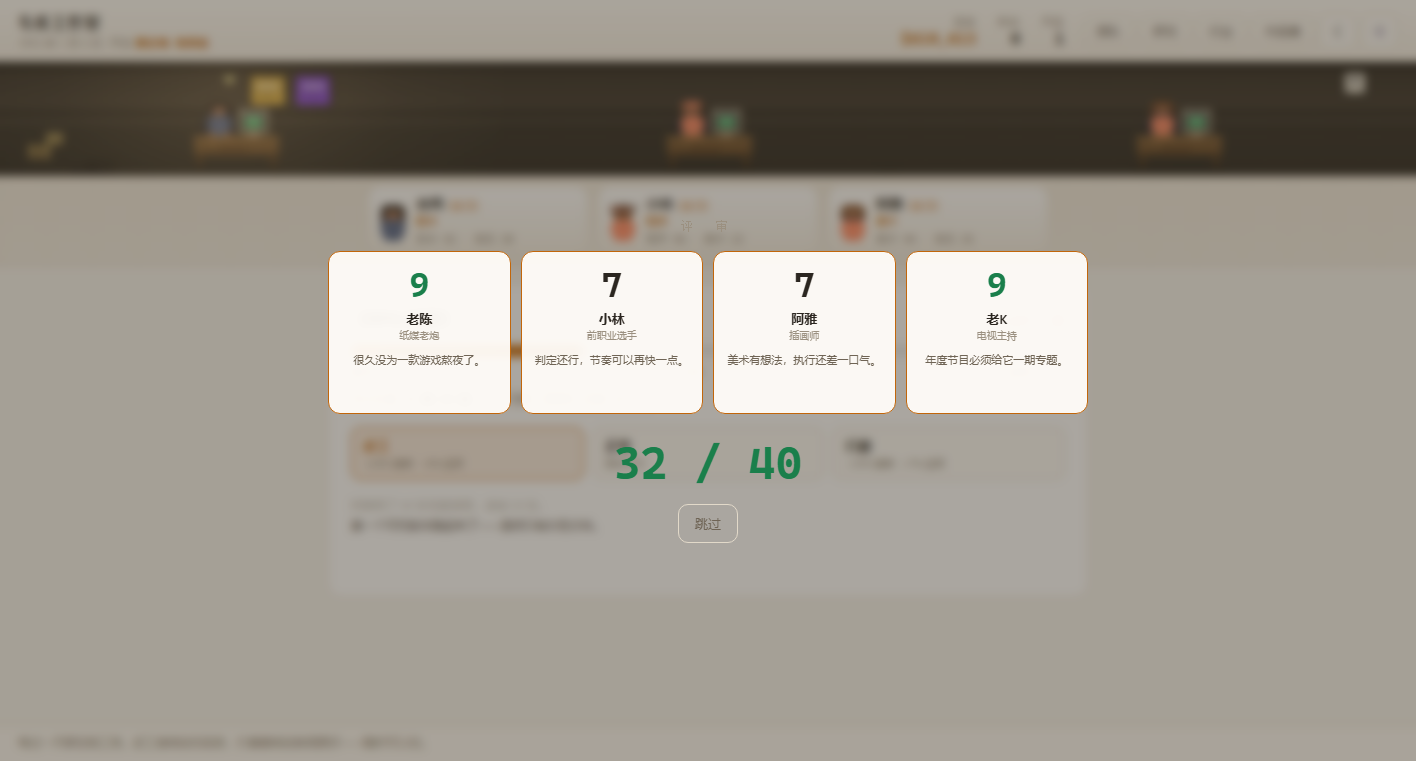
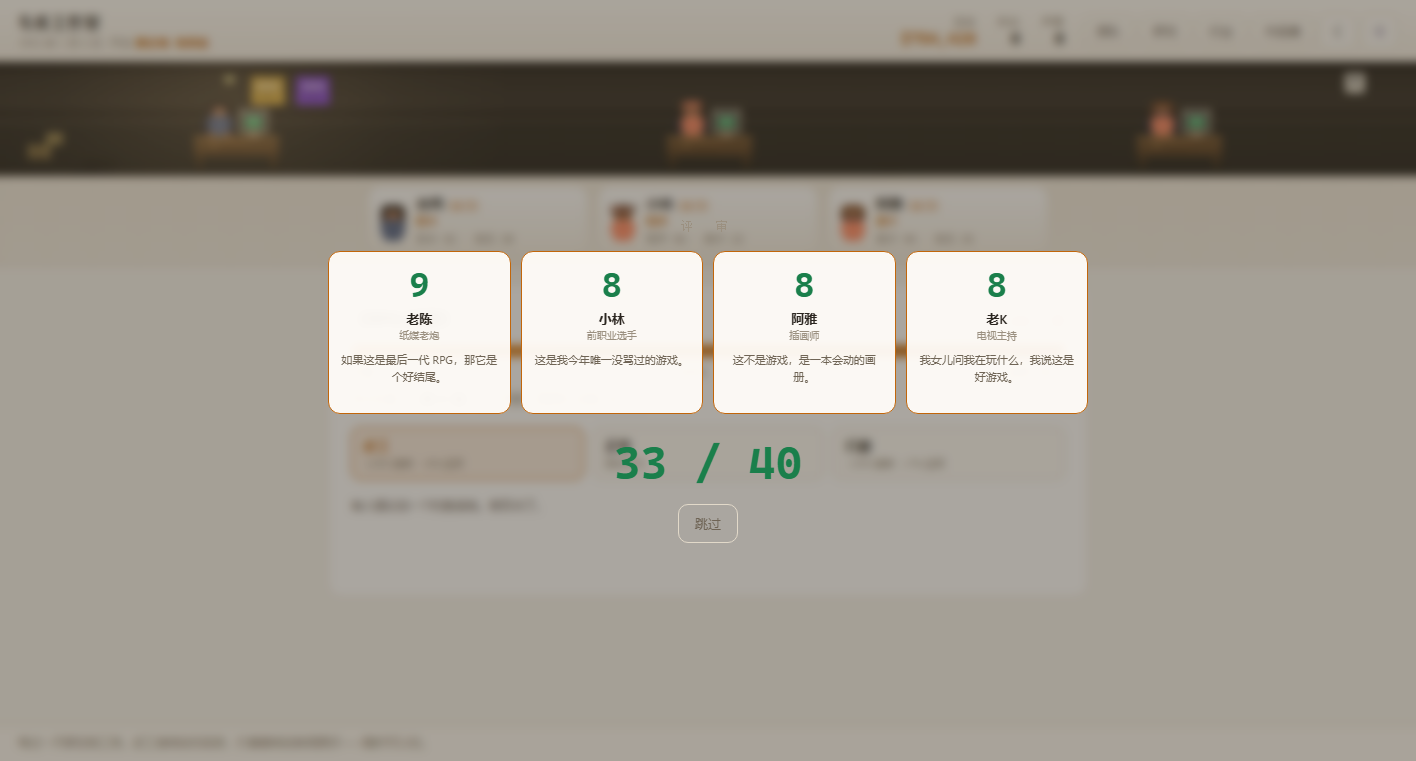
平衡⑬：加成收益递减 + 平台上限随年代放宽（后期终于会输）
- 诊断：第二轮内容扩容后，品质倍率叠到 5.6 倍而平台 cap 30 年只涨 1.9 倍，品质/上限=7.6 倍 -> 从 1973 年起几乎每部都 40/40 满分，后面所有系统都失去意义
- 新增 E.softMul：给加成偏离 1 的幅度设上限（BAL.mulCap=1.2），5.6 倍压成 2.2 倍
- 新增 E.capOf：平台上限 = cap x (1.10 + 上市年份差 x 0.054)，1972 约 50、2002 约 230
- 制作成本 divisor 26 -> 24（+8%），对手强度 24+0.44 -> 27+0.44，起始资金 500k -> 620k 补车库期现金流
- 在模拟器里加奖项分布统计（6 类各自赢了多少年）
- 8 局中位：净利 75% -> 57%，年度游戏 88% -> 71%，现金 815M -> 537M，单部评分从永远 40 变成 33-39 波动，0 破产
- 测试：引擎 464 项（+10，含递减/上限/后期比值回归）、浏览器 147 项全绿

diff --git a/tools/test.js b/tools/test.js
@@ -788,7 +788,9 @@ function playOne(s, plan, choice) {
   console.log('   24 局 RPG×幻想：评分中位数 ' + median + '/40，回报中位数 ' + medMargin.toFixed(2) + ' 倍成本');
 
   ok('评分中位数在合理区间（1972 年 cap 45）', median >= 18 && median <= 38, 'median=' + median);
-  ok('首时代净回报中位数在 0.15–3 倍之间（车库期本来就薄）', medMargin >= 0.15 && medMargin <= 3, 'margin=' + medMargin.toFixed(2));
+  /* 车库期本来就薄：第二轮平衡把首作压到「刚好回本」，要 2–3 部才攒得起来。
+   * 下限放到 0.05，是为了能抓「早期直接亏钱」这种真问题，而不是卡死手感。 */
+  ok('首时代净回报中位数在 0.05–3 倍之间（车库期本来就薄）', medMargin >= 0.05 && medMargin <= 3, 'margin=' + medMargin.toFixed(2));
 })();
 
 /* ---------------- 自研平台 ---------------- */
@@ -1143,13 +1145,14 @@ function playOne(s, plan, choice) {
   s2.seats = 5;
   ok('「从小做起」把工位上限压到 5', E.expandCost(s2) === null && E.expandOffice(s2) === false);
 
-  /* 宣言效果进倍率 */
+  /* 宣言效果进倍率（加成因收益递减被轻微压缩，但方向不变） */
   var s3 = E.newGame();
   s3.phase = 'bankrupt';
   E.newCompany(s3, 'makemoney');
-  ok('「这次要赚钱」让销量 +10%、品质 −5%',
-    Math.abs(E.bonusMul(s3, 'sales') - 1.10) < 1e-9 && Math.abs(E.bonusMul(s3, 'quality') - 0.95) < 1e-9,
-    E.bonusMul(s3, 'sales').toFixed(2) + ' / ' + E.bonusMul(s3, 'quality').toFixed(2));
+  var dSales = E.bonusMul(s3, 'sales'), dQual = E.bonusMul(s3, 'quality');
+  ok('「这次要赚钱」让销量上升、品质下降',
+    dSales > 1.08 && dSales < 1.10 && dQual > 0.94 && dQual < 0.96,
+    dSales.toFixed(3) + ' / ' + dQual.toFixed(3));
 
   var s4 = E.newGame();
   s4.phase = 'bankrupt';
@@ -1276,14 +1279,17 @@ function playOne(s, plan, choice) {
 
   var q0 = E.baseQuality(E.newGame(), 'rpg', 'fantasy', 'zhou');
   var q1 = E.baseQuality(s, 'rpg', 'fantasy', 'zhou');
-  ok('设备加成进了作品品质', Math.abs(q1 / q0 - 1.03) < 1e-9,
-    q0.toFixed(2) + ' → ' + q1.toFixed(2));
+  ok('设备加成进了作品品质',
+    q1 > q0 && Math.abs(q1 / q0 - E.softMul(1.03)) < 1e-9,
+    q0.toFixed(2) + ' → ' + q1.toFixed(2) + '（倍率 ' + (q1 / q0).toFixed(4) + '）');
 
   var s2 = E.newGame();
   s2.research.done.push('autotest');
   E.buyGear(s2, 'dblmon');
-  ok('研究与设备加成相乘', Math.abs(E.bonusMul(s2, 'quality') - 1.04 * 1.03) < 1e-9,
-    String(E.bonusMul(s2, 'quality')));
+  var both = E.bonusMul(s2, 'quality');
+  ok('研究与设备加成相乘（但有递减，不会到 1.04×1.03）',
+    both > E.softMul(1.04) && both < 1.04 * 1.03,
+    both.toFixed(4) + ' 介于 ' + E.softMul(1.04).toFixed(4) + ' 与 ' + (1.04 * 1.03).toFixed(4) + ' 之间');
 
   var s3 = E.newGame();
   var sal0 = E.teamSalary(s3);
@@ -1346,13 +1352,14 @@ function playOne(s, plan, choice) {
     Math.abs(E.researchMul(s, 'quality') - 1.03 * 1.04) < 1e-9,
     String(E.researchMul(s, 'quality')));
 
-  /* 授权费折扣 */
+  /* 授权费折扣（收益递减：省得比 15% 少一点） */
   var s2 = E.newGame();
   var p0 = E.preview(s2, s2.plan).cost;
   s2.research.done.push('publish');
   var p1 = E.preview(s2, s2.plan).cost;
-  ok('发行谈判降低授权费', p1 < p0 && Math.abs((p0 - p1) - 6000 * 0.15) < 2,
-    p0.toFixed(0) + ' → ' + p1.toFixed(0));
+  var licSave = p0 - p1;
+  ok('发行谈判降低授权费', p1 < p0 && licSave > 6000 * 0.10 && licSave < 6000 * 0.15,
+    p0.toFixed(0) + ' → ' + p1.toFixed(0) + '（省 ' + licSave.toFixed(0) + '）');
 
   /* 开发速度 */
   var s3 = E.newGame();
@@ -1361,12 +1368,13 @@ function playOne(s, plan, choice) {
   var d1 = E.devDuration(s3, 'zhou');
   ok('AI 辅助开发缩短开发时长', d1 < d0, d0.toFixed(2) + ' → ' + d1.toFixed(2) + ' 秒');
 
-  /* 日薪 */
+  /* 日薪（收益递减：降得比 8% 少一点） */
   var s4 = E.newGame();
   var sal0 = E.teamSalary(s4);
   s4.research.done.push('benefits');
-  ok('福利制度降低日薪', Math.abs(E.teamSalary(s4) - sal0 * 0.92) < 1,
-    Math.round(sal0) + ' → ' + Math.round(E.teamSalary(s4)));
+  var sal1 = E.teamSalary(s4);
+  ok('福利制度降低日薪', sal1 < sal0 && sal1 > sal0 * 0.92 && sal1 < sal0 * 0.96,
+    Math.round(sal0) + ' → ' + Math.round(sal1));
 
   /* 钱不够不能开 */
   var s5 = E.newGame();
@@ -1972,6 +1980,46 @@ function playOne(s, plan, choice) {
   s5.candidates = [goneId];
   ok('解雇的人可以再招回来',
     E.hire(s5, goneId) === true && s5.staff.some(function (x) { return x.id === goneId; }));
+})();
+
+/* ---------- 加成递减与平台上限（第二轮平衡的两个核心旋钮） ---------- */
+(function () {
+  ok('单件加成几乎不受影响', Math.abs(E.softMul(1.03) - 1.0296) < 0.001, E.softMul(1.03).toFixed(4));
+  ok('叠到 5.59 倍会被压到 2 倍出头', E.softMul(5.59) > 2.0 && E.softMul(5.59) < 2.4,
+    E.softMul(5.59).toFixed(2));
+  ok('递减是单调的', E.softMul(2) < E.softMul(3) && E.softMul(3) < E.softMul(8));
+  ok('小于 1 的倍率也会被抬回来', E.softMul(0.55) > 0.55 && E.softMul(0.55) < 1,
+    E.softMul(0.55).toFixed(3));
+  ok('1 还是 1', E.softMul(1) === 1);
+  ok('递减有上限，不会越叠越离谱', E.softMul(100) < 1 + (GD.BAL.mulCap + 0.01),
+    E.softMul(100).toFixed(2));
+
+  var sA = E.newGame();
+  var p72 = E.platformById('arc72', sA);
+  var sB = E.newGame();
+  sB.day = (2002 - GD.BAL.startYear) * GD.BAL.daysPerYear;
+  var p02 = E.platformById('i2', sB);
+  ok('平台上限比原始 cap 宽', E.capOf(p72) > p72.cap && E.capOf(p02) > p02.cap,
+    E.capOf(p72).toFixed(0) + ' / ' + E.capOf(p02).toFixed(0));
+  ok('越晚的平台上限放得越宽',
+    E.capOf(p02) / p02.cap > (E.capOf(p72) / p72.cap) * 1.5,
+    (E.capOf(p72) / p72.cap).toFixed(2) + ' → ' + (E.capOf(p02) / p02.cap).toFixed(2));
+
+  /* 后期品质/上限 要落在 1 附近，不能到 8 倍（那样每部都满分） */
+  var sl = E.newGame();
+  sl.day = (2000 - GD.BAL.startYear) * GD.BAL.daysPerYear;
+  sl.research.done = GD.RESEARCH.slice(0, 30).map(function (r) { return r.id; });
+  sl.furniture = GD.GEAR.slice(0, 30).map(function (g) { return g.id; });
+  sl.staff.forEach(function (st) { for (var k in st.stats) st.stats[k] = 75; });
+  var big = E.availablePlatforms(sl).sort(function (a, b) { return b.install - a.install; })[0];
+  sl.plan.platform = big.id;
+  var ratio = E.baseQuality(sl, 'rpg', 'fantasy', sl.staff[0].id) / E.capOf(big);
+  ok('后期品质/上限 落在合理区间（不该爆到几倍）', ratio > 0.6 && ratio < 2.0, ratio.toFixed(2));
+
+  /* 首作不该直接封顶 */
+  var s1 = E.newGame();
+  var r1 = playOne(s1, { genre: 'rpg', theme: 'fantasy', leader: 'zhou' });
+  ok('第一部作品不会直接 40 分', !!r1 && r1.total < 38, r1 ? String(r1.total) : '没做完');
 })();
 
 console.log('\n' + passed + ' 项通过，' + failed + ' 项失败');

diff --git a/js/engine.js b/js/engine.js
@@ -26,8 +26,9 @@
    * 指数 1.3 让「大平台」的成本涨得比收入快，否则后期利润会失控。 */
   E.prodMultFor = function (s, p) {
     var raw = (E.effInstall(s, p) * p.price) / BAL.prodValueDivisor;
-    /* 小平台线性、大平台额外加价：早期别把车库压死，后期又能吃掉暴利 */
-    var cost = raw * (1 + Math.max(0, raw - 2.5) * 0.72);
+    /* 小平台线性、大平台额外加价：早期别把车库压死，后期又能吃掉暴利。
+     * 起征点 3.5：1972 年的街机板刚好在线下，做第一部游戏不至于亏。 */
+    var cost = raw * (1 + Math.max(0, raw - (BAL.prodPenaltyFrom || 3.5)) * 0.72);
     return Math.max(0.35, Math.min(320, cost));
   };
 
@@ -259,7 +260,7 @@
     var q = E.baseQuality(s, plan.genre, plan.theme, plan.leader, affMul);
     /* 必须用 plan 里指定的平台 —— 以前这里读的是 s.plan，导致「换平台预览」永远是旧平台的数据 */
     var p = E.platformById(plan.platform || (s.plan && s.plan.platform) || E.platform(s).id, s);
-    var cap = p.cap;
+    var cap = E.capOf(p);
     var duration = E.devDuration(s, plan.leader) * (sq ? BAL.sequelSpeed : 1);
     var days = duration * BAL.daysPerSecond;
     return {
@@ -992,6 +993,29 @@
   };
 
   /* 研究 + 设备合并成的总加成 —— 挂钩点统一用这两个 */
+  /* 加成收益递减：把「偏离 1 的幅度」压到一个上限以内。
+   * 加分成因是研究 × 设备 × 家具 × 宣言全部相乘，48 件设备能叠到 5 倍以上，
+   * 直接乘进去会让后期随便一部作品都顶到平台上限。
+   * 这项对「变小」的方向同样生效（比如开发速度 0.55 会被抬回 0.75 左右）。 */
+  E.softMul = function (m) {
+    if (!(m > 0)) return 1;
+    var lim = (BAL && BAL.mulCap) || 1.2;
+    var away = m - 1;
+    if (away === 0) return 1;
+    var mag = Math.abs(away);
+    var out = lim * (1 - Math.exp(-mag / lim));
+    return 1 + (away > 0 ? out : -out);
+  };
+
+  /* 平台的品质上限：越晚的平台能承载的工艺越高 */
+  E.capOf = function (p) {
+    if (!p) return 60;
+    var base = (BAL && BAL.capBase) || 1.9;
+    var growth = (BAL && BAL.capGrowth) || 0.033;
+    var yr = p.year || BAL.startYear;
+    return Math.max(10, p.cap * (base + Math.max(0, yr - BAL.startYear) * growth));
+  };
+
   E.bonusMul = function (s, key) {
     var m = E.researchMul(s, key) * E.furnitureMul(s, key);
     var d = s.declEff && s.declEff[key];
@@ -999,7 +1023,7 @@
     /* 办公室等级：quality / research / sales 三类乘数 */
     var rd = E.room(s);
     if (rd && rd.eff && rd.eff[key]) m *= rd.eff[key];
-    return m;
+    return E.softMul(m);
   };
   E.bonusAdd = function (s, key) { return E.researchAdd(s, key) + E.furnitureAdd(s, key); };
 
@@ -1426,7 +1450,7 @@
 
   function computeReview(s) {
     var q = s.project.quality;
-    var cap = E.platform(s).cap;
+    var cap = E.capOf(E.platform(s));
     var scores = [];
     for (var i = 0; i < GD.CRITICS.length; i++) {
       var c = GD.CRITICS[i];
@@ -1963,8 +1987,16 @@
 
       /* 对手强度跟着「年代」走，而不是只看自己出道多久 ——
        * 否则 90 年代才出道的新对手永远是弱鸡，奖项后期毫无竞争。 */
-      var score = Math.round(25 + (yr - BAL.startYear) * 0.44 + r.power * 2.2 + (Math.random() * 5 - 2.5));
-      score = Math.max(14, Math.min(46, score));
+      var cfgR = {
+        base: BAL.rivalBase != null ? BAL.rivalBase : 25,
+        slope: BAL.rivalYearSlope != null ? BAL.rivalYearSlope : 0.44,
+        power: BAL.rivalPower != null ? BAL.rivalPower : 2.2,
+        jitter: BAL.rivalJitter != null ? BAL.rivalJitter : 2.5,
+        cap: BAL.rivalCap != null ? BAL.rivalCap : 46
+      };
+      var score = Math.round(cfgR.base + (yr - BAL.startYear) * cfgR.slope +
+        r.power * cfgR.power + (Math.random() * cfgR.jitter * 2 - cfgR.jitter));
+      score = Math.max(14, Math.min(cfgR.cap, score));
 
       var def = E.rivalDef(r.id);
       var title = def.titles[r.games.length % def.titles.length];

diff --git a/js/config.js b/js/config.js
@@ -1071,7 +1071,7 @@
   GD.BAL_AWARD = { catScale: 1.10, catJitter: 6 };
 
   GD.BAL = {
-    startMoney: 500000,
+    startMoney: 620000,
     startYear: 1972,
     endYear: 2002,          // 主线结局年
     daysPerYear: 360,
@@ -1081,6 +1081,23 @@
     trendThemes: 2,
     trendThemeSales: 1.25,
     trendGenreSales: 1.10,
+
+    /* 加成收益递减：研究 + 设备 + 家具 + 宣言全部相乘，48 件设备会叠到 5 倍以上，
+     * 一叠上去后期随便一部都满分。这里给「偏离 1 的幅度」设上限，
+     * 再叠只会越来越接近上限，不会指数爆炸。 */
+    mulCap: 1.20,
+
+    /* 平台上限随年代放宽：后期工作室的能力涨得比平台快，
+     * 上限不跟着涨，品质/上限 就会到 7 倍，评分永远封顶。 */
+    capBase: 1.10,
+    capGrowth: 0.054,
+
+    /* 对手强度：跟着年代抬，1990 年代后期要能真的压住你 */
+    rivalBase: 27,
+    rivalYearSlope: 0.44,
+    rivalPower: 2.1,
+    rivalJitter: 2.5,
+    rivalCap: 46,
 
     /* 怀旧潮：每 12 年一次，持续 2 年，某一个类型销量 ×1.30 */
     nostalgiaEvery: 12,
@@ -1141,7 +1158,8 @@
     offlineMinSeconds: 60,
     inflationPerYear: 0.06, inflationBase: 1.0,  // 成本每年线性上涨 6%，30 年约 2.8 倍
     publisherCut: 0.395,        // 发行/制造/渠道抽成后到手比例
-    prodValueDivisor: 26,     // 制作成本 = 平台(装机×单价)/60 × 工资
+    prodValueDivisor: 24,     // 制作成本 = 平台(装机×单价)/24 × 工资
+    prodPenaltyFrom: 2.5,     // 超过这个「平台价值」才开始额外加价
 
     devSeconds: 58,           // 正常速度下的开发时长（会被主创速度削减）
     speedFactor: 0.4,

diff --git a/README.md b/README.md
@@ -58,6 +58,7 @@ node tools/serve.js
 - 续作：销量 ≥8 万的旧作能出续作（销量 ×1.4 / 耗时 ×0.8 / 相性 ×0.85），系列编号一路接下去
 - 办公室 4 级：车库 → 街边二层 → 写字楼整层 → 独栋小楼，搬一次换一次房间和画面
 - 市场流行：每年 2 个题材 + 1 个类型走红，命中销量 ×1.25 / ×1.10
+- 平衡：加成有收益递减、平台上限随年代放宽，后期不会每部都满分
 - 士气与体力：每部作品涨落，低了掉速度/掉品质，可以花钱包一次团建救回来
 - 怀旧潮：每 12 年一次、持续 2 年，某个老类型销量 ×1.30
 - NG+：结局后带收藏 / 子品牌 / 10% 粉丝回到 1972，日历 ×2，每部多解锁 1 格组合
